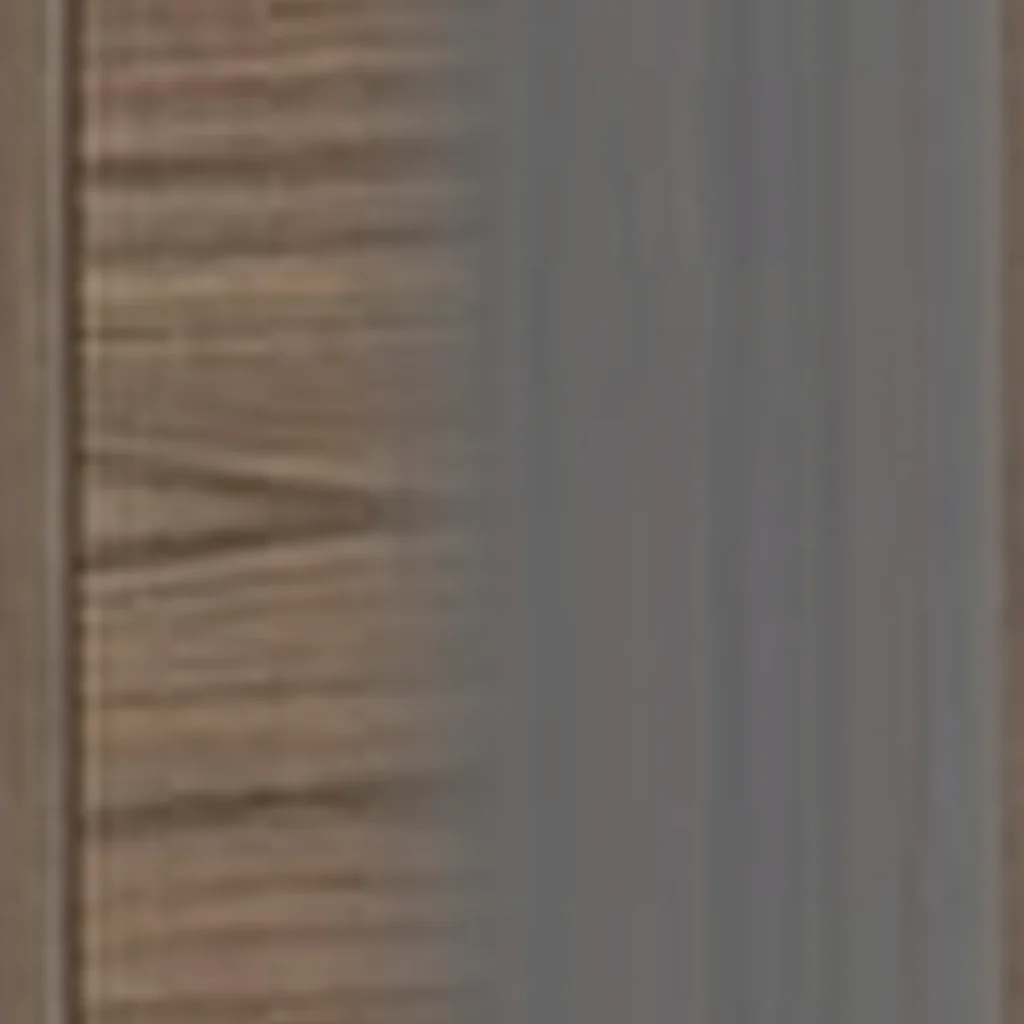
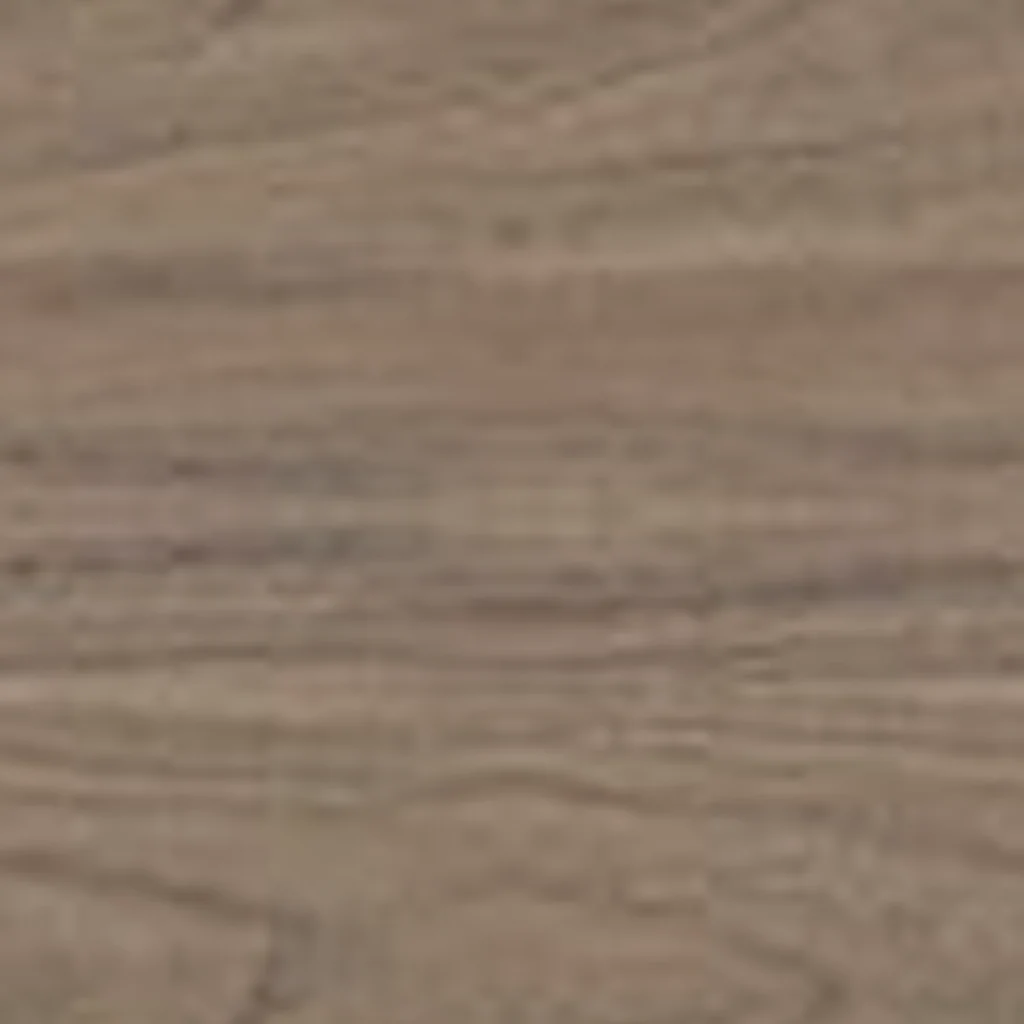
fix(flat3d): колонны кухни — дальше от двери; гейт фактур ловит силу пятна, не только площадь
- колонны до потолка встают в дальний от двери конец линии: у входа они перекрывали всю кухню
  и мешали пройти (кадр 29.09);
- гейт фактур из фото дополнен «силой самого заметного пятна»: тень от ручки занимает 0,3 %
  площади, проходила по доле — и повторялась в каждом тайле. Фактуры пересобраны: дуб, орех,
  белый рифлёный, графит (гладкий комодный фасад вместо ребристого шкафа);
- лента вариантов и карточка проверены e2e.

diff --git a/lib/viewer3d/kits/kitchen.ts b/lib/viewer3d/kits/kitchen.ts
@@ -29,6 +29,11 @@ export interface KitchenSpec {
   depthCm: number;
   /** Свободная глубина комнаты перед линией, см. Остров ставится только если он влезает. */
   roomDepthCm?: number;
+  /**
+   * С какого конца линии ставить колонны до потолка. Их место — ДАЛЬШЕ ОТ ДВЕРИ: у входа
+   * они перекрывают вид на всю кухню (кадр 29.09) и мешают пройти.
+   */
+  columnsAt?: "start" | "end";
 }
 
 const KICK_H = 10;
@@ -83,8 +88,10 @@ export function buildKitchen(ctx: KitCtx, spec: KitchenSpec): THREE.Group {
   const columns = has("tall-unit") ? Math.max(1, LEVEL.columns) : LEVEL.columns;
   const tall = columns > 0;
   const tallW = columns * 60;
+  const atEnd = (spec.columnsAt ?? "start") === "end";
   const runW = Math.max(120, (W - tallW) * LEVEL.run);
-  const runX0 = -W / 2 + tallW; // ряд правее колонн
+  const runX0 = atEnd ? -W / 2 : -W / 2 + tallW; // ряд слева или справа от колонн
+  const colX0 = atEnd ? -W / 2 + runW : -W / 2;  // начало блока колонн
 
   // ── нижний ряд ───────────────────────────────────────────────────────────
   g.add(boxOn(runW, KICK_H, D - 6, runX0 + runW / 2, 0, -3, kickMat));
@@ -169,7 +176,7 @@ export function buildKitchen(ctx: KitCtx, spec: KitchenSpec): THREE.Group {
   // ── колонна: духовой шкаф / холодильник / микроволновка ─────────────────
   for (let c = 0; c < columns; c += 1) {
     const cw = 60;
-    const cx = -W / 2 + cw / 2 + c * cw;
+    const cx = colX0 + cw / 2 + c * cw;
     g.add(boxOn(cw, TALL_TOP, D, cx, 0, 0, bodyMat));
     // первая колонна — холодильник/кладовая, вторая (Premium) — духовка, СВЧ и винный шкаф
     if (c === 0) {

diff --git a/lib/viewer3d/viewer.ts b/lib/viewer3d/viewer.ts
@@ -11,7 +11,7 @@
 import * as THREE from "three";
 import { RoomEnvironment } from "three/examples/jsm/environments/RoomEnvironment.js";
 
-import type { Apartment } from "@/contracts/apartment";
+import type { Apartment, Placement, Room } from "@/contracts/apartment";
 import { findRoom, roomAt, roomCentre } from "@/contracts/apartment";
 import type { Catalogue, Material } from "@/contracts/configurator";
 import type { ResolvedScene } from "@/lib/configurator/resolve";
@@ -327,6 +327,7 @@ export class FlatViewer {
         widthCm: p.wCm,
         depthCm: p.dCm,
         roomDepthCm: kitchenRoom ? Math.min(kitchenRoom.w, kitchenRoom.d) : undefined,
+        columnsAt: kitchenRoom ? farFromDoor(kitchenRoom, p) : undefined,
       });
     } else if (spec.kind === "bathroom") {
       group = buildBathroom(this.kitCtx, {
@@ -758,6 +759,23 @@ export class FlatViewer {
     disposeMaterialCtx(this.matCtx);
     this.renderer.dispose();
   }
+}
+
+/**
+ * С какой стороны линии ставить колонны: подальше от двери. Дверь переводим в локальную ось
+ * предмета (вдоль линии) и смотрим, к какому её концу она ближе.
+ */
+function farFromDoor(room: Room, p: Placement): "start" | "end" {
+  const door = room.openings.find((o) => o.kind === "door" || o.kind === "opening");
+  if (!door) return "start";
+  const mid = door.offsetCm + door.widthCm / 2;
+  const dx =
+    door.wall === "south" || door.wall === "north" ? room.x + mid - p.x : (door.wall === "west" ? room.x : room.x + room.w) - p.x;
+  const dy =
+    door.wall === "west" || door.wall === "east" ? room.y + mid - p.y : (door.wall === "south" ? room.y : room.y + room.d) - p.y;
+  const a = (-p.rot * Math.PI) / 180;
+  const local = dx * Math.cos(a) - dy * Math.sin(a); // координата двери вдоль линии
+  return local < 0 ? "end" : "start";
 }
 
 function signatureOf(spec: ObjectSpec): string {

diff --git a/tools/assets/material_from_product.py b/tools/assets/material_from_product.py
@@ -189,6 +189,21 @@ def blob_ratio(tile: np.ndarray) -> float:
     return float((dev > 0.28).mean())
 
 
+def peak_dev(tile: np.ndarray) -> float:
+    """Самое заметное пятно (99-й процентиль отклонения).
+
+    Долей пикселей ручку не поймать: тень от ручки занимает 0,3 % площади и гейт проходит,
+    а в тайле она повторяется в каждом «кирпичике» и сразу бросается в глаза (кадр 29.09).
+    Поэтому смотрим ещё и на СИЛУ самого заметного отклонения.
+    """
+    g = np.asarray(
+        Image.fromarray(tile).convert("L").filter(ImageFilter.GaussianBlur(3)), np.float32
+    )
+    med = float(np.median(g))
+    dev = np.abs(g - med) / max(med, 1.0)
+    return float(np.percentile(dev, 99))
+
+
 def flatten_light(arr: np.ndarray, sigma: int = 60) -> np.ndarray:
     """Снять студийный градиент, СОХРАНИВ цвет.
 
@@ -218,6 +233,7 @@ def seam_error(tile: np.ndarray) -> float:
 MAX_SEAM = 2.0      # шов не должен быть заметнее внутренней фактуры больше чем вдвое
 MAX_BLOB = 0.05     # не больше 5 % «инородных» пикселей (ручки, стыки)
 MAX_QUAD = 0.16     # половинки вырезки не должны отличаться по яркости больше чем на 16 %
+MAX_PEAK = 0.13     # самое заметное пятно (ручка, петля, блик) — не больше 13 % от тона
 
 
 def prepare(patch: Image.Image) -> tuple[np.ndarray, float, float, float]:
@@ -229,7 +245,7 @@ def prepare(patch: Image.Image) -> tuple[np.ndarray, float, float, float]:
     arr = flatten_light(np.asarray(patch.resize((TILE, TILE), Image.LANCZOS), np.float32))
     tile = make_seamless(arr.astype(np.uint8), blend=0.18)
     err = seam_error(np.asarray(Image.fromarray(tile).convert("L")))
-    return tile, err, blob_ratio(tile), quadrant_spread(tile)
+    return tile, err, max(blob_ratio(tile), peak_dev(tile) / (MAX_PEAK / MAX_BLOB)), quadrant_spread(tile)
 
 
 def build(sid: str, name: str, shop: str, url: str, image_url: str, mid: str,
